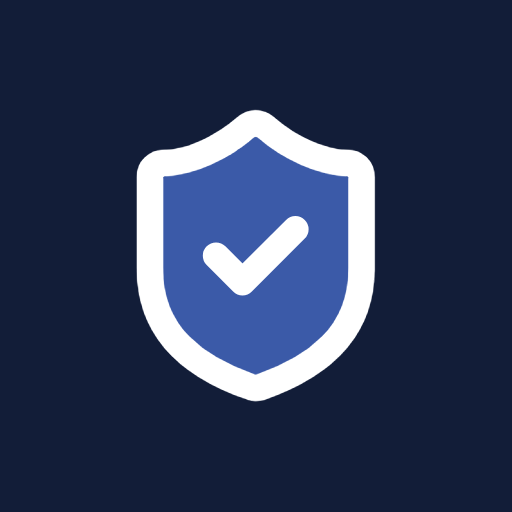
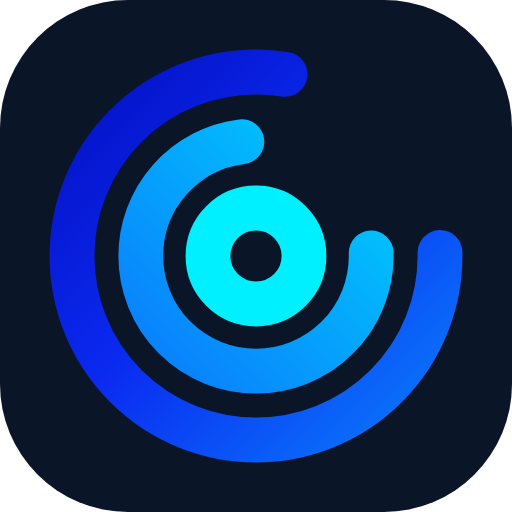
feat: marca completa de Comunicalo, paleta apagada, menu, iconos y textos; plan C-05 a C-13 y decisiones DC-006 a DC-009 (C-05)

diff --git a/apps/web/src/modules/informes/VerificarInformePage.tsx b/apps/web/src/modules/informes/VerificarInformePage.tsx
@@ -1,7 +1,7 @@
 import { useParams, useSearchParams } from 'react-router-dom';
 import { useQuery } from '@tanstack/react-query';
 import { BadgeCheck, ShieldAlert, ShieldX } from 'lucide-react';
-import { TIPO_INFORME_LABEL } from '@platinum/shared';
+import { MARCA, TIPO_INFORME_LABEL } from '@platinum/shared';
 import { Spinner, cn } from '../../components/ui';
 import { ApiError } from '../../core/api';
 import { formatFecha, formatFechaHora } from '../../core/format/fechas';
@@ -28,7 +28,7 @@ export function VerificarInformePage() {
   const estado = q.isPending
     ? null
     : noExiste || falso
-      ? { tono: 'rojo', icono: ShieldX, titulo: noExiste ? 'No existe un reporte con ese folio' : 'El código no coincide', texto: noExiste ? 'Revisa el folio o solicita el documento original a Platinum Agency.' : 'El folio existe, pero el código impreso no corresponde: el documento puede haber sido alterado.' }
+      ? { tono: 'rojo', icono: ShieldX, titulo: noExiste ? 'No existe un reporte con ese folio' : 'El código no coincide', texto: noExiste ? `Revisa el folio o solicita el documento original a ${MARCA.nombre}.` : 'El folio existe, pero el código impreso no corresponde: el documento puede haber sido alterado.' }
       : q.isError || !v
         ? { tono: 'rojo', icono: ShieldX, titulo: 'No se pudo verificar', texto: 'Intenta de nuevo en unos minutos.' }
         : reemplazado
@@ -88,7 +88,7 @@ export function VerificarInformePage() {
           </dl>
         )}
         <p className="text-xs text-slate-500">
-          Esta página solo confirma que el documento fue emitido por Platinum Agency y sus totales. El detalle es de uso interno.
+          Esta página solo confirma que el documento fue emitido por {MARCA.nombre} y sus totales. El detalle es de uso interno.
         </p>
       </main>
     </div>

diff --git a/apps/web/src/index.css b/apps/web/src/index.css
@@ -1,26 +1,27 @@
 @import 'tailwindcss';
 
 /*
- * Tema Comunicalo: sale del ícono de la marca (favicon.svg).
+ * Tema Comunicalo: sale del ícono de la marca (favicon.svg), en tonos apagados para uso diario.
  * - 900/950: azul marino del fondo del ícono (menú, login).
- * - 700: azul eléctrico, color principal (botones, ítem activo, enlaces); 800: su versión profunda.
- * - 500/600: azul cielo del degradado; 50–400: tonos claros para fondos y avisos.
+ * - 700: azul del resplandor del login, color principal (botones, ítem activo, enlaces); 800: su versión profunda.
+ * - 500/600: azules intermedios (enfoque, indicadores); 50–400: tonos claros para fondos y avisos.
  * - acento: cian del ícono, solo sobre fondos oscuros (sobre blanco no tiene contraste).
+ * El azul eléctrico del ícono (#0a2af0) queda solo en el ícono y en detalles puntuales de marca.
  */
 @theme {
-  --color-brand-50: #eef6ff;
-  --color-brand-100: #dcedff;
-  --color-brand-200: #b8dafe;
-  --color-brand-300: #7dbbff;
-  --color-brand-400: #3d9bff;
-  --color-brand-500: #0a7cfc;
-  --color-brand-600: #0a4bf6;
-  --color-brand-700: #0a2af0;
-  --color-brand-800: #0d1c6e;
+  --color-brand-50: #eef4fc;
+  --color-brand-100: #dbe8f9;
+  --color-brand-200: #b8d3f4;
+  --color-brand-300: #86b5ec;
+  --color-brand-400: #4d93e0;
+  --color-brand-500: #1f6fd0;
+  --color-brand-600: #14509f;
+  --color-brand-700: #0b3263;
+  --color-brand-800: #0a2750;
   --color-brand-900: #0b1528;
   --color-brand-950: #070e1d;
 
-  /* Azul del resplandor del login (marino mezclado con el azul cielo): para elementos de marca discretos. */
+  /* Mismo azul que brand-700 (resplandor del login); se conserva por los elementos del login que ya lo usan. */
   --color-brand-fondo: #0b3263;
 
   --color-acento-300: #00f0ff;

diff --git a/apps/api/src/modules/informes/pdf.ts b/apps/api/src/modules/informes/pdf.ts
@@ -2,6 +2,7 @@ import PDFDocument from 'pdfkit';
 import QRCode from 'qrcode';
 import {
   ESTADO_DIA_INFORME_LABEL,
+  MARCA,
   SALIDA_ANTICIPADA_MIN,
   type EstadoDiaInforme,
   type Informe,
@@ -508,7 +509,7 @@ function cabeceraYPie(doc: Doc, i: Informe, url: string, qr: Buffer, pagina: num
   doc.moveTo(MARGEN, H - 40).lineTo(W - MARGEN, H - 40).lineWidth(0.6).strokeColor(C.linea).stroke();
   doc.font('Helvetica-Bold').fontSize(7).fillColor(C.navy).text(`${i.folio}  ·  ${i.codigo}`, MARGEN, H - 34, { width: W / 2, lineBreak: false });
   doc.font('Helvetica').fontSize(6.8).fillColor(C.suave);
-  doc.text('Documento interno de Platinum Agency. Las horas las registra el servidor y no son editables.', MARGEN, H - 24, {
+  doc.text(`Documento interno de ${MARCA.nombre}. Las horas las registra el servidor y no son editables.`, MARGEN, H - 24, {
     width: W - MARGEN * 2,
     lineBreak: false,
   });
@@ -531,10 +532,10 @@ export async function generarPdf(i: Informe, url: string): Promise<Buffer> {
     bufferPages: true,
     info: {
       Title: `Reporte de asistencia ${i.folio}`,
-      Author: 'Platinum Agency',
+      Author: MARCA.nombre,
       Subject: `${i.datos.alcance} · ${periodo(i)}`,
       Keywords: `${i.folio}, ${i.codigo}`,
-      Creator: 'Intranet Platinum',
+      Creator: MARCA.nombre,
     },
   });
   const trozos: Buffer[] = [];
@@ -581,7 +582,7 @@ export async function generarPdf(i: Informe, url: string): Promise<Buffer> {
             ['Administración', 'Autorizó'],
           ]
         : [
-            ['Elaboró', 'Platinum Agency'],
+            ['Elaboró', MARCA.nombre],
             ['Supervisor', 'Revisó'],
             ['Administración', 'Autorizó'],
           ],

diff --git a/apps/web/src/components/layout/AppShell.tsx b/apps/web/src/components/layout/AppShell.tsx
@@ -1,6 +1,6 @@
 import { useState } from 'react';
 import { Link, NavLink, Outlet, useLocation } from 'react-router-dom';
-import { Ellipsis, KeyRound, LockKeyhole, LogOut, ShieldCheck } from 'lucide-react';
+import { Ellipsis, KeyRound, LockKeyhole, LogOut } from 'lucide-react';
 import { ROL_DESCRIPCIONES } from '@platinum/shared';
 import { hasPermission, hasRole, useAuthStore } from '../../core/auth/authStore';
 import { authService } from '../../core/auth/AuthService';
@@ -26,10 +26,10 @@ function useVisibleNav() {
 
 function Brand({ className }: { className?: string }) {
   return (
-    <div className={cn('flex items-center gap-2 font-semibold tracking-tight', className)}>
-      <ShieldCheck className="size-6 text-platinum-300" />
+    <div className={cn('flex items-center gap-2.5 font-semibold tracking-tight', className)}>
+      <img src="/favicon.svg" alt="" className="size-8" />
       <span>
-        Platinum <span className="font-normal text-platinum-300">Intranet</span>
+        <span className="text-platinum-300">gestión</span> <span className="text-acento-400">comunícalo.</span>
       </span>
     </div>
   );

diff --git a/apps/web/vite.config.ts b/apps/web/vite.config.ts
@@ -17,16 +17,16 @@ export default defineConfig(({ mode }) => ({
       registerType: 'autoUpdate',
       includeAssets: ['favicon.svg', 'apple-touch-icon.png'],
       manifest: {
-        name: 'Platinum Intranet',
-        short_name: 'Platinum',
-        description: 'Intranet de Platinum Agency: checador, reportes y asistencia.',
+        name: 'Gestión Comunicalo',
+        short_name: 'Gestión',
+        description: 'Gestión Comunicalo: checador biométrico, asistencia y horarios.',
         lang: 'es-MX',
         start_url: '/',
         scope: '/',
         display: 'standalone',
         orientation: 'portrait',
-        background_color: '#121d38',
-        theme_color: '#121d38',
+        background_color: '#0b1528',
+        theme_color: '#0b1528',
         icons: [
           { src: '/icon-192.png', sizes: '192x192', type: 'image/png' },
           { src: '/icon-512.png', sizes: '512x512', type: 'image/png' },

diff --git a/apps/web/src/modules/usuarios/PasswordTemporalModal.tsx b/apps/web/src/modules/usuarios/PasswordTemporalModal.tsx
@@ -1,5 +1,5 @@
 import { Copy, MessageCircle, TriangleAlert } from 'lucide-react';
-import type { Usuario } from '@platinum/shared';
+import { MARCA, type Usuario } from '@platinum/shared';
 import { Button, Modal, toast } from '../../components/ui';
 
 async function copiar(texto: string, aviso: string) {
@@ -28,7 +28,7 @@ export function PasswordTemporalModal({
   const { usuario, passwordTemporal } = resultado;
   const url = window.location.origin;
   const mensaje =
-    `Hola ${usuario.nombre}, tu acceso a Platinum Intranet:\n` +
+    `Hola ${usuario.nombre}, tu acceso a ${MARCA.nombre}:\n` +
     `Página: ${url}\nCorreo: ${usuario.email}\nContraseña temporal: ${passwordTemporal}\n` +
     `Al entrar te pedirá crear una contraseña nueva.`;
 

diff --git a/apps/api/src/app.ts b/apps/api/src/app.ts
@@ -2,6 +2,7 @@ import express from 'express';
 import helmet from 'helmet';
 import cors from 'cors';
 import cookieParser from 'cookie-parser';
+import { MARCA } from '@platinum/shared';
 import { env } from './config/env';
 import { errorHandler, notFoundHandler, type AppModule } from './core';
 import { modules as defaultModules } from './modules';
@@ -21,7 +22,7 @@ export function createApp(modules: AppModule[] = defaultModules) {
     res.json({
       ok: true,
       data: {
-        servicio: 'API Platinum Intranet',
+        servicio: `API ${MARCA.nombre}`,
         estado: 'en línea',
         salud: '/api/health',
         modulos: modules.map((m) => `/api/${m.basePath}`),

diff --git a/apps/api/src/modules/informes/excel.ts b/apps/api/src/modules/informes/excel.ts
@@ -2,6 +2,7 @@ import { randomBytes } from 'node:crypto';
 import ExcelJS from 'exceljs';
 import {
   ESTADO_DIA_INFORME_LABEL,
+  MARCA,
   type Informe,
   type InformeResumen,
 } from '@platinum/shared';
@@ -95,7 +96,7 @@ const COLS_RESUMEN = [
 /** Excel de trabajo (no oficial) del reporte congelado: horas en número para poder sumarlas. */
 export async function generarExcel(i: Informe, url: string, hash: string): Promise<Buffer> {
   const wb = new ExcelJS.Workbook();
-  wb.creator = 'Platinum Agency';
+  wb.creator = MARCA.nombre;
   wb.created = new Date(i.createdAt);
   wb.title = `Reporte de asistencia ${i.folio} (copia de trabajo)`;
   const d = i.datos;

diff --git a/apps/api/src/modules/horarios/horarios.pdf.ts b/apps/api/src/modules/horarios/horarios.pdf.ts
@@ -1,4 +1,5 @@
 import PDFDocument from 'pdfkit';
+import { MARCA } from '@platinum/shared';
 import { env } from '../../config/env';
 import {
   ALTO_CABECERA,
@@ -80,9 +81,9 @@ export async function generarHorarioPdf(d: DatosHorario): Promise<Buffer> {
     bufferPages: true,
     info: {
       Title: `Horario de guardias ${d.desde} a ${d.hasta}`,
-      Author: 'Platinum Agency',
+      Author: MARCA.nombre,
       Subject: d.alcance,
-      Creator: 'Intranet Platinum',
+      Creator: MARCA.nombre,
     },
   });
   const trozos: Buffer[] = [];

diff --git a/apps/api/src/config/env.ts b/apps/api/src/config/env.ts
@@ -29,7 +29,7 @@ const envSchema = z.object({
   SMTP_PORT: z.coerce.number().int().default(587),
   SMTP_USER: z.string().optional(),
   SMTP_PASS: z.string().optional(),
-  MAIL_FROM: z.string().default('Platinum Agency <no-reply@platinum.example>'),
+  MAIL_FROM: z.string().default('Gestión Comunicalo <no-reply@grupocomunicalo.mx>'),
   // Notificaciones push (A-20). Sin las dos claves el push queda apagado y todo lo demás funciona igual.
   VAPID_PUBLIC_KEY: z.string().optional(),
   VAPID_PRIVATE_KEY: z.string().optional(),

diff --git a/apps/web/public/push-sw.js b/apps/web/public/push-sw.js
@@ -11,7 +11,7 @@ self.addEventListener('push', (event) => {
     }
   })();
   event.waitUntil(
-    self.registration.showNotification(datos.titulo || 'Platinum', {
+    self.registration.showNotification(datos.titulo || 'Gestión Comunicalo', {
       body: datos.cuerpo || '',
       icon: '/icon-192.png',
       // Android pinta el badge en la barra de estado: solo usa su transparencia (escudo blanco).

diff --git a/packages/shared/src/constants/marca.ts b/packages/shared/src/constants/marca.ts
@@ -1,0 +1,6 @@
+/** Nombre del producto en textos planos (correos, PDFs, mensajes). Un solo lugar para cambiarlo. */
+export const MARCA = {
+  nombre: 'Gestión Comunicalo',
+  nombreCorto: 'Gestión',
+  grupo: 'Grupo Comunícalo',
+} as const;
